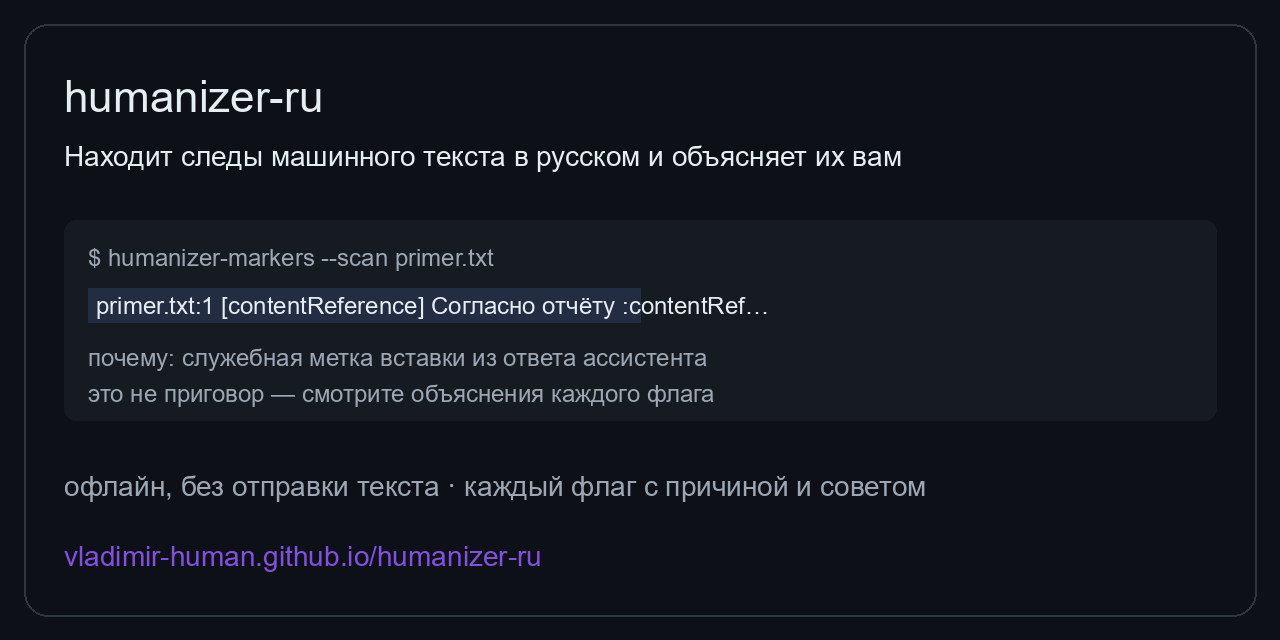
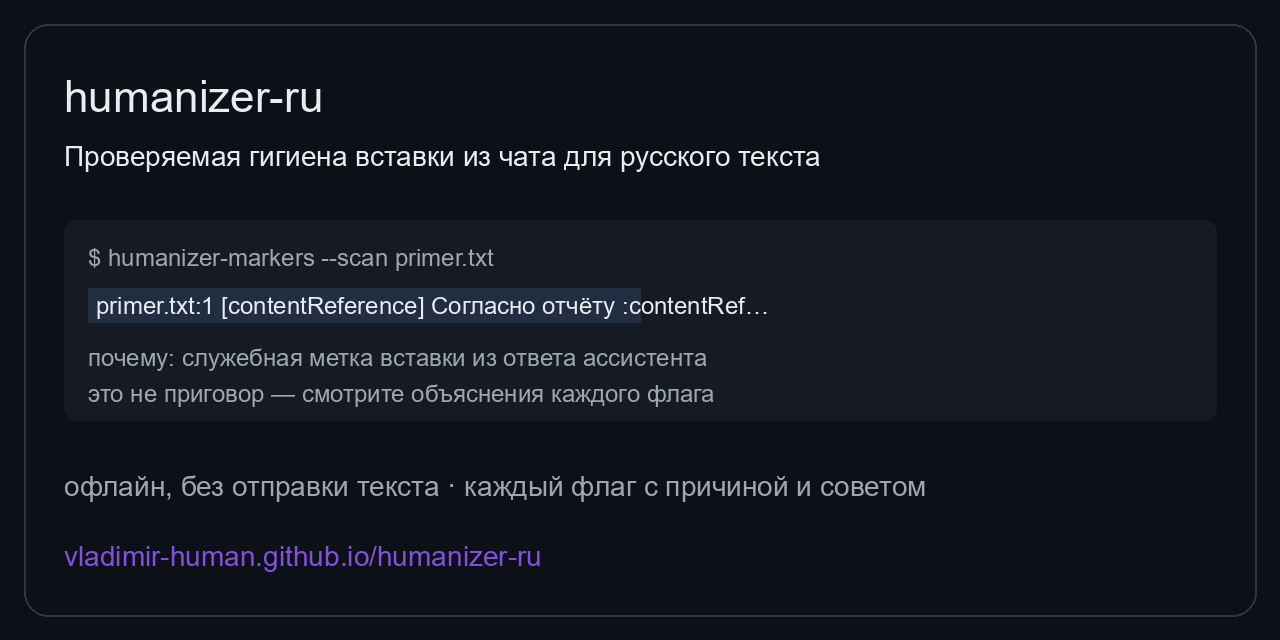
feat: позиционирование вариант А — «Проверяемая гигиена вставки из чата для русского текста»
Выбор делегирован владельцем 2026-09-05; принят вариант А по
docs/POSITIONING-PROPOSAL.md в сокращённой форме (55 символов, лимит 60):
короткая формула «Проверяемая гигиена вставки из чата для русского текста»,
длинная — с хвостом «детерминированно, с реестром фактов, офлайн, каждый
флаг с причиной и советом»; EN: Verifiable chat-paste hygiene for Russian
text.

Формулы разнесены дословно по всем поверхностям гейта: POSITIONING.md,
positioning.py, пять CLI (--help), pyproject description, README строка 2,
README.en, README.pypi, demo (title/h1/meta/og), server.json, CITATION
(title и abstract, date-released 2026-09-05); social-preview и og-image
перегенерированы; About репозитория обновлён через API. SKILL.md не тронут
(его description задан дословно приказом N27). Негативная мутация selftest
позиционирования переведена на новую формулу. Решение и основание записаны
в docs/POSITIONING-PROPOSAL.md и CHANGELOG 3.31.1.

Autonomous run: исполнено агентом по письменному приказу владельца, GOVERNANCE §4.1.

Changed region(s): [[0.0625, 0.2188, 0.7188, 0.2812]]

diff --git a/demo/index.html b/demo/index.html
@@ -4,9 +4,9 @@
 <meta charset="utf-8">
 <link rel="icon" href="favicon.svg" type="image/svg+xml">
 <meta name="viewport" content="width=device-width, initial-scale=1">
-<meta name="description" content="Находит следы машинного текста в русском и объясняет их вам: офлайн, без отправки текста, каждый флаг с причиной и советом, правила расширяются свободно.">
-<meta property="og:title" content="Находит следы машинного текста в русском и объясняет их вам">
-<meta property="og:description" content="Находит следы машинного текста в русском и объясняет их вам: офлайн, без отправки текста, каждый флаг с причиной и советом, правила расширяются свободно.">
+<meta name="description" content="Проверяемая гигиена вставки из чата для русского текста: детерминированно, с реестром фактов, офлайн, каждый флаг с причиной и советом.">
+<meta property="og:title" content="Проверяемая гигиена вставки из чата для русского текста">
+<meta property="og:description" content="Проверяемая гигиена вставки из чата для русского текста: детерминированно, с реестром фактов, офлайн, каждый флаг с причиной и советом.">
 <meta property="og:type" content="website">
 <meta property="og:url" content="https://vladimir-human.github.io/humanizer-ru/">
 <meta property="og:image" content="https://vladimir-human.github.io/humanizer-ru/og-image.png">
@@ -14,7 +14,7 @@
 <meta property="og:image:height" content="630">
 <meta property="og:site_name" content="humanizer-ru">
 <meta property="og:locale" content="ru_RU">
-<title>Находит следы машинного текста в русском и объясняет их вам</title>
+<title>Проверяемая гигиена вставки из чата для русского текста</title>
 <script src="markers.js"></script>
 <script src="engine.js"></script>
 <script src="sample.js"></script>
@@ -48,7 +48,7 @@
 </head>
 <body>
 <header>
-  <h1>Находит следы машинного текста в русском и объясняет их вам</h1>
+  <h1>Проверяемая гигиена вставки из чата для русского текста</h1>
   <p class="note">Вставьте текст, скопированный из чата с ИИ, — покажем следы и объясним каждый. Текст анализируется только в браузере и никуда не отправляется. Исходники и полный скилл — в <a href="https://github.com/Vladimir-Human/humanizer-ru">репозитории на GitHub</a>.</p>
 </header>
 <main>

diff --git a/src/humanizer_ru/positioning.py b/src/humanizer_ru/positioning.py
@@ -2,7 +2,7 @@
 # -*- coding: utf-8 -*-
 """Формулы позиционирования (единственный источник для кода)."""
 
-SHORT_RU = "Находит следы машинного текста в русском и объясняет их вам"
-LONG_RU = "Находит следы машинного текста в русском и объясняет их вам: офлайн, без отправки текста, каждый флаг с причиной и советом, правила расширяются свободно."
-SHORT_EN = "Finds machine-text traces in Russian and explains them"
-LONG_EN = "Finds machine-text traces in Russian and explains them to you: offline, no text leaves your machine, every flag with a reason and a fix, rules extend freely."
+SHORT_RU = "Проверяемая гигиена вставки из чата для русского текста"
+LONG_RU = "Проверяемая гигиена вставки из чата для русского текста: детерминированно, с реестром фактов, офлайн, каждый флаг с причиной и советом."
+SHORT_EN = "Verifiable chat-paste hygiene for Russian text"
+LONG_EN = "Verifiable chat-paste hygiene for Russian text: deterministic, backed by a facts registry, offline, every flag with a reason and a fix."

diff --git a/scripts/check_positioning_sync.py b/scripts/check_positioning_sync.py
@@ -130,7 +130,7 @@ def check(pos_text=None):
 def selftest():
     checks = [("все поверхности несут формулы дословно", check() == [])]
     pos = read("POSITIONING.md")
-    bad = pos.replace("объясняет их вам", "объясняет их кому-то")
+    bad = pos.replace("гигиена вставки из чата", "гигиена вставки из почты")
     checks.append(("расхождение формулы ловится", check(bad) != []))
     formula_bad = check_formula_words(
         "## Короткая формула (RU, <= 60 символов)\nСканер слоя regex\n\n"

diff --git a/src/humanizer_ru/facts_diff.py b/src/humanizer_ru/facts_diff.py
@@ -426,7 +426,7 @@ def envelope(before: str, after: str, files=None) -> dict:
 
 # ---------------------------------------------------------------- CLI
 
-SHORT_RU = "Находит следы машинного текста в русском и объясняет их вам"
+SHORT_RU = "Проверяемая гигиена вставки из чата для русского текста"
 
 
 def main(argv: Optional[Sequence[str]] = None) -> int:

diff --git a/scripts/build_social_preview.py b/scripts/build_social_preview.py
@@ -9,7 +9,7 @@ import sys
 
 ROOT = os.path.dirname(os.path.dirname(os.path.abspath(__file__)))
 
-SHORT_RU = "Находит следы машинного текста в русском и объясняет их вам"
+SHORT_RU = "Проверяемая гигиена вставки из чата для русского текста"
 URL = "vladimir-human.github.io/humanizer-ru"
 BG = (13, 17, 23)
 FG = (230, 237, 243)

diff --git a/src/humanizer_ru/edit_report.py b/src/humanizer_ru/edit_report.py
@@ -157,7 +157,7 @@ def report(before_path, after_path):
             "files": [{"before": before_path, "after": after_path, **body}]}
 
 
-SHORT_RU = "Находит следы машинного текста в русском и объясняет их вам"
+SHORT_RU = "Проверяемая гигиена вставки из чата для русского текста"
 
 
 def main(argv=None):

diff --git a/scripts/polish.py b/scripts/polish.py
@@ -431,7 +431,7 @@ def _diff_text(before: str, after: str, label: str) -> str:
     return "".join(lines)
 
 
-SHORT_RU = "Находит следы машинного текста в русском и объясняет их вам"
+SHORT_RU = "Проверяемая гигиена вставки из чата для русского текста"
 
 
 def main(argv=None) -> int:

diff --git a/src/humanizer_ru/polish.py b/src/humanizer_ru/polish.py
@@ -431,7 +431,7 @@ def _diff_text(before: str, after: str, label: str) -> str:
     return "".join(lines)
 
 
-SHORT_RU = "Находит следы машинного текста в русском и объясняет их вам"
+SHORT_RU = "Проверяемая гигиена вставки из чата для русского текста"
 
 
 def main(argv=None) -> int:

diff --git a/scripts/detect_conj.py b/scripts/detect_conj.py
@@ -230,7 +230,7 @@ def scope_note(text: str) -> str:
     return ""
 
 
-SHORT_RU = "Находит следы машинного текста в русском и объясняет их вам"
+SHORT_RU = "Проверяемая гигиена вставки из чата для русского текста"
 
 
 def main(argv=None) -> int:

diff --git a/src/humanizer_ru/detect_conj.py b/src/humanizer_ru/detect_conj.py
@@ -230,7 +230,7 @@ def scope_note(text: str) -> str:
     return ""
 
 
-SHORT_RU = "Находит следы машинного текста в русском и объясняет их вам"
+SHORT_RU = "Проверяемая гигиена вставки из чата для русского текста"
 
 
 def main(argv=None) -> int:

diff --git a/scripts/scan_soft_signals.py b/scripts/scan_soft_signals.py
@@ -1240,7 +1240,7 @@ def scope_note(text):
     return ""
 
 
-SHORT_RU = "Находит следы машинного текста в русском и объясняет их вам"
+SHORT_RU = "Проверяемая гигиена вставки из чата для русского текста"
 
 
 def main(argv=None):

diff --git a/src/humanizer_ru/scan_soft_signals.py b/src/humanizer_ru/scan_soft_signals.py
@@ -1240,7 +1240,7 @@ def scope_note(text):
     return ""
 
 
-SHORT_RU = "Находит следы машинного текста в русском и объясняет их вам"
+SHORT_RU = "Проверяемая гигиена вставки из чата для русского текста"
 
 
 def main(argv=None):
